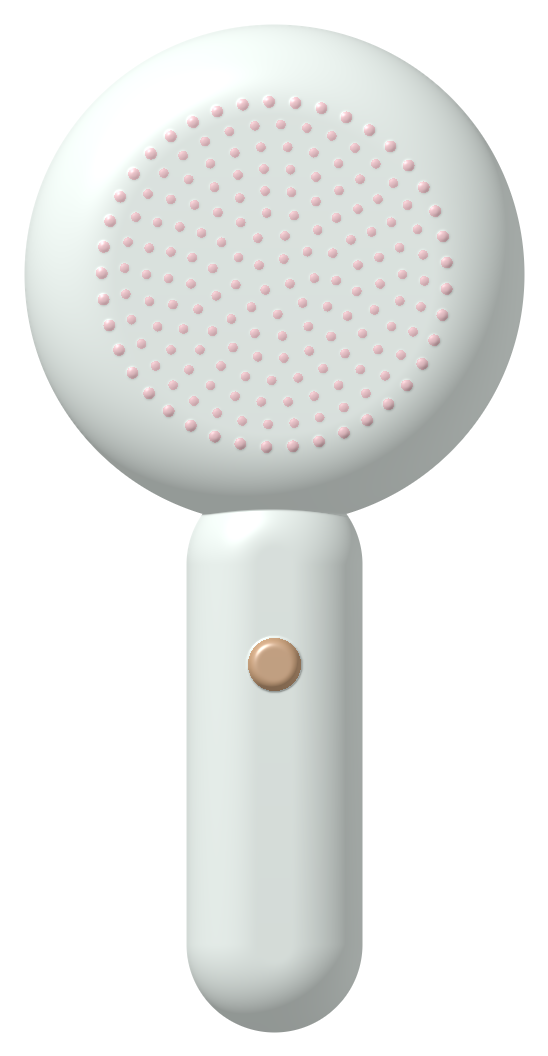
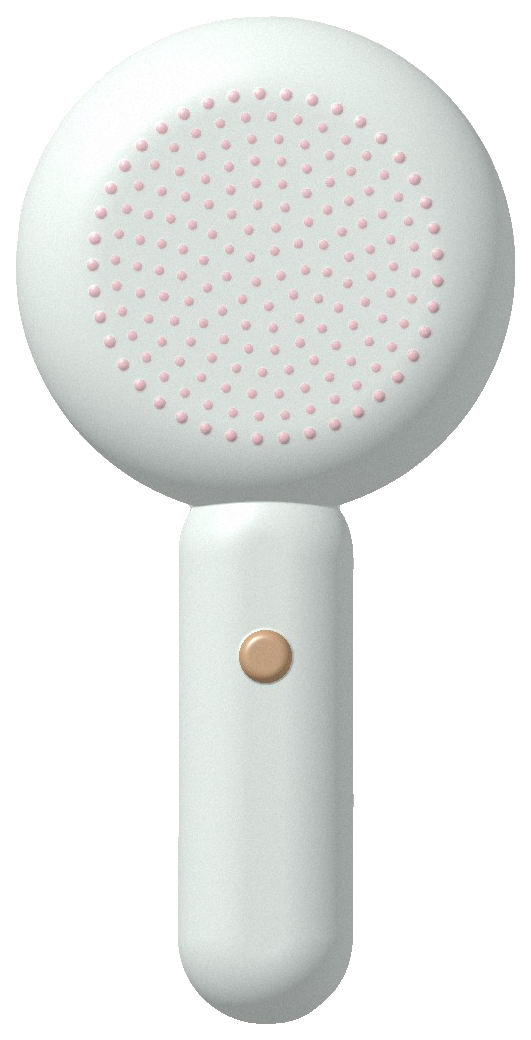
ig-pipeline step 5: rembg cut-out with QA, Photoshop fallback scripts, full sample build
Claude-Session: https://claude.ai/code/session_01CW3dEFA9z4ny1N62gyG3sV

diff --git a/ig-pipeline/tokens/build/tokens.js b/ig-pipeline/tokens/build/tokens.js
@@ -1,2 +1,2 @@
 // AUTO-GENERATED
-window.TOKENS = {"meta":{"name":"ig-pipeline design tokens","version":"0.1.0","unit":"px at 1x canvas (1080 wide). Output is rendered at 1x; background assets are generated at 2x."},"color":{"paper":{"cream":"#F5F0E6","creamDeep":"#ECE5D7","creamShade":"#E2D9C7"},"ink":{"black":"#151413","soft":"#3D3A35","muted":"#7A746A","hairline":"#CFC6B5"},"pigment":{"cobalt":"#1B3DD1","violet":"#6A3BD6","orange":"#F59A2E","vermilion":"#EE4422","pink":"#F3A6C6","teal":"#13A08A","yellow":"#F3C43A","black":"#151413","white":"#FBF8F1"}},"palette":{"aurora":{"dawn":{"colors":["cobalt","violet","orange"],"dots":["cobalt","orange","black"],"shape":"wave"},"shift":{"colors":["violet","vermilion","orange"],"dots":["violet","vermilion","orange"],"shape":"scurve"},"radiance":{"colors":["teal","black","yellow"],"dots":["teal","yellow","black"],"shape":"orb"},"ember":{"colors":["orange","vermilion","black"],"dots":["orange","vermilion","black"],"shape":"scurve2"},"tide":{"colors":["cobalt","teal","yellow"],"dots":["cobalt","teal","yellow"],"shape":"swirl"},"mist":{"colors":["black","orange","yellow"],"dots":["black","orange","yellow"],"shape":"smoke"}},"accentDots":["cobalt","orange","black"],"paint":["cobalt","vermilion","pink","teal","black","orange","white"]},"font":{"mode":"adobe","family":{"serifDisplay":{"adobe":["Cormorant Garamond"],"fallback":"TK Cormorant Garamond","fallbackFiles":{"300":"CormorantGaramond-300.ttf","400":"CormorantGaramond-400.ttf","500":"CormorantGaramond-500.ttf","400i":"CormorantGaramond-400-italic.ttf"}},"mincho":{"adobe":["Ten Mincho","貂明朝"],"fallback":"TK Zen Old Mincho","fallbackFiles":{"400":"ZenOldMincho-400.ttf","700":"ZenOldMincho-700.ttf"}},"gothicHeavy":{"adobe":["Source Han Sans JP","源ノ角ゴシック JP","Source Han Sans"],"fallback":"TK Noto Sans JP","fallbackFiles":{"700":"NotoSansJP-700.ttf","900":"NotoSansJP-900.ttf"}},"label":{"adobe":[],"fallback":"TK Inter","fallbackFiles":{"400":"Inter-400.ttf","500":"Inter-500.ttf","600":"Inter-600.ttf"}}}},"type":{"displayWord":{"family":"serifDisplay","size":132,"weight":400,"lineHeight":0.9,"tracking":"-0.01em","case":"upper"},"displayWordL":{"family":"serifDisplay","size":168,"weight":400,"lineHeight":0.9,"tracking":"-0.015em","case":"upper"},"sectionWord":{"family":"serifDisplay","size":104,"weight":400,"lineHeight":0.9,"tracking":"-0.01em","case":"upper"},"productName":{"family":"serifDisplay","size":56,"weight":400,"lineHeight":1,"tracking":"-0.005em"},"productNameS":{"family":"serifDisplay","size":30,"weight":500,"lineHeight":1.1,"tracking":"0"},"tagline":{"family":"serifDisplay","size":26,"weight":400,"lineHeight":1.3,"tracking":"0"},"jpLead":{"family":"mincho","size":24,"weight":400,"lineHeight":1.75,"tracking":"0.06em"},"jpCta":{"family":"mincho","size":34,"weight":400,"lineHeight":1.6,"tracking":"0.06em"},"jpBody":{"family":"mincho","size":21,"weight":400,"lineHeight":1.8,"tracking":"0.04em"},"jpCaption":{"family":"mincho","size":17,"weight":400,"lineHeight":1.7,"tracking":"0.04em"},"price":{"family":"serifDisplay","size":44,"weight":400,"lineHeight":1,"tracking":"0"},"priceL":{"family":"serifDisplay","size":60,"weight":400,"lineHeight":1,"tracking":"-0.01em"},"index":{"family":"serifDisplay","size":28,"weight":400,"lineHeight":1,"tracking":"0"},"label":{"family":"label","size":14,"weight":600,"lineHeight":1.25,"tracking":"0.12em","case":"upper"},"labelSmall":{"family":"label","size":12,"weight":500,"lineHeight":1.3,"tracking":"0.1em","case":"upper"},"pr":{"family":"label","size":13,"weight":600,"lineHeight":1,"tracking":"0.14em","case":"upper"},"headlineHeavy":{"family":"gothicHeavy","size":150,"weight":900,"lineHeight":1.08,"tracking":"-0.04em"},"subHeavy":{"family":"gothicHeavy","size":34,"weight":700,"lineHeight":1.4,"tracking":"0.02em"}},"space":{"unit":8,"xs":8,"s":16,"m":24,"l":40,"xl":64,"xxl":96,"xxxl":144},"layout":{"margin":{"x":72,"top":64,"bottom":72},"rule":{"weight":1.5,"length":72},"dots":{"size":14,"gap":7},"productMaxHeight":520,"productMaxWidth":600,"mastheadFade":{"height":300,"opacity":0.7}},"canvas":{"carousel":{"width":1080,"height":1350},"reel":{"width":1080,"height":1920,"safe":{"top":220,"bottom":380,"x":72}},"assetScale":2},"texture":{"grain":{"amount":0.055,"auroraEdge":0.55},"paper":{"amount":0.014,"cluster":1}},"motion":{"fps":30,"ease":{"soft":[0.25,0.1,0.25,1],"editorial":[0.7,0,0.2,1]},"duration":{"in":0.6,"hold":2.4,"out":0.4}},"brand":{"collection":"BEAUTY_TECH ARCHIVE","handle":"@your_account","prLabel":"PR","prNotice":"本投稿はアフィリエイト広告（PR）を含みます","cta":"商品リンクは\nプロフィールから。","stores":["楽天ROOM","Amazon"],"savePrompt":"保存して、選ぶときに見返してください。","priceNote":"価格は{date}時点の参考価格（税込）です。最新情報は各ストアでご確認ください。"}};
+window.TOKENS = {"meta":{"name":"ig-pipeline design tokens","version":"0.1.0","unit":"px at 1x canvas (1080 wide). Output is rendered at 1x; background assets are generated at 2x."},"color":{"paper":{"cream":"#F5F0E6","creamDeep":"#ECE5D7","creamShade":"#E2D9C7"},"ink":{"black":"#151413","soft":"#3D3A35","muted":"#7A746A","hairline":"#CFC6B5"},"pigment":{"cobalt":"#1B3DD1","violet":"#6A3BD6","orange":"#F59A2E","vermilion":"#EE4422","pink":"#F3A6C6","teal":"#13A08A","yellow":"#F3C43A","black":"#151413","white":"#FBF8F1"}},"palette":{"aurora":{"dawn":{"colors":["cobalt","violet","orange"],"dots":["cobalt","orange","black"],"shape":"wave"},"shift":{"colors":["violet","vermilion","orange"],"dots":["violet","vermilion","orange"],"shape":"scurve"},"radiance":{"colors":["teal","black","yellow"],"dots":["teal","yellow","black"],"shape":"orb"},"ember":{"colors":["orange","vermilion","black"],"dots":["orange","vermilion","black"],"shape":"scurve2"},"tide":{"colors":["cobalt","teal","yellow"],"dots":["cobalt","teal","yellow"],"shape":"swirl"},"mist":{"colors":["black","orange","yellow"],"dots":["black","orange","yellow"],"shape":"smoke"}},"accentDots":["cobalt","orange","black"],"paint":["cobalt","vermilion","pink","teal","black","orange","white"]},"font":{"mode":"adobe","family":{"serifDisplay":{"adobe":["Cormorant Garamond"],"fallback":"TK Cormorant Garamond","fallbackFiles":{"300":"CormorantGaramond-300.ttf","400":"CormorantGaramond-400.ttf","500":"CormorantGaramond-500.ttf","400i":"CormorantGaramond-400-italic.ttf"}},"mincho":{"adobe":["Ten Mincho","貂明朝"],"fallback":"TK Zen Old Mincho","fallbackFiles":{"400":"ZenOldMincho-400.ttf","700":"ZenOldMincho-700.ttf"}},"gothicHeavy":{"adobe":["Source Han Sans JP","源ノ角ゴシック JP","Source Han Sans"],"fallback":"TK Noto Sans JP","fallbackFiles":{"700":"NotoSansJP-700.ttf","900":"NotoSansJP-900.ttf"}},"label":{"adobe":[],"fallback":"TK Inter","fallbackFiles":{"400":"Inter-400.ttf","500":"Inter-500.ttf","600":"Inter-600.ttf"}}}},"type":{"displayWord":{"family":"serifDisplay","size":132,"weight":400,"lineHeight":0.9,"tracking":"-0.01em","case":"upper"},"displayWordL":{"family":"serifDisplay","size":168,"weight":400,"lineHeight":0.9,"tracking":"-0.015em","case":"upper"},"sectionWord":{"family":"serifDisplay","size":104,"weight":400,"lineHeight":0.9,"tracking":"-0.01em","case":"upper"},"productName":{"family":"serifDisplay","size":56,"weight":400,"lineHeight":1,"tracking":"-0.005em"},"productNameS":{"family":"serifDisplay","size":30,"weight":500,"lineHeight":1.1,"tracking":"0"},"tagline":{"family":"serifDisplay","size":26,"weight":400,"lineHeight":1.3,"tracking":"0"},"jpLead":{"family":"mincho","size":24,"weight":400,"lineHeight":1.75,"tracking":"0.06em"},"jpCta":{"family":"mincho","size":34,"weight":400,"lineHeight":1.6,"tracking":"0.06em"},"jpBody":{"family":"mincho","size":21,"weight":400,"lineHeight":1.8,"tracking":"0.04em"},"jpCaption":{"family":"mincho","size":17,"weight":400,"lineHeight":1.7,"tracking":"0.04em"},"price":{"family":"serifDisplay","size":44,"weight":400,"lineHeight":1,"tracking":"0"},"priceL":{"family":"serifDisplay","size":60,"weight":400,"lineHeight":1,"tracking":"-0.01em"},"index":{"family":"serifDisplay","size":28,"weight":400,"lineHeight":1,"tracking":"0"},"label":{"family":"label","size":14,"weight":600,"lineHeight":1.25,"tracking":"0.12em","case":"upper"},"labelSmall":{"family":"label","size":12,"weight":500,"lineHeight":1.3,"tracking":"0.1em","case":"upper"},"pr":{"family":"label","size":13,"weight":600,"lineHeight":1,"tracking":"0.14em","case":"upper"},"headlineHeavy":{"family":"gothicHeavy","size":150,"weight":900,"lineHeight":1.08,"tracking":"-0.04em"},"subHeavy":{"family":"gothicHeavy","size":34,"weight":700,"lineHeight":1.4,"tracking":"0.02em"}},"space":{"unit":8,"xs":8,"s":16,"m":24,"l":40,"xl":64,"xxl":96,"xxxl":144},"layout":{"margin":{"x":72,"top":64,"bottom":72},"rule":{"weight":1.5,"length":72},"dots":{"size":14,"gap":7},"productMaxHeight":520,"productMaxWidth":600,"mastheadFade":{"height":300,"opacity":0.7}},"canvas":{"carousel":{"width":1080,"height":1350},"reel":{"width":1080,"height":1920,"safe":{"top":220,"bottom":380,"x":72}},"assetScale":2},"texture":{"grain":{"amount":0.055,"auroraEdge":0.55},"paper":{"amount":0.014,"cluster":1}},"motion":{"fps":30,"ease":{"soft":[0.25,0.1,0.25,1],"editorial":[0.7,0,0.2,1]},"duration":{"in":0.6,"hold":2.4,"out":0.4}},"brand":{"collection":"BEAUTY_TECH ARCHIVE","handle":"@your_account","prLabel":"PR","prNotice":"本投稿はアフィリエイト広告（PR）を含みます","cta":"商品リンクは\nプロフィールから。","stores":["楽天ROOM","Amazon"],"savePrompt":"保存して、選ぶときに見返してください。","priceNote":"価格は{date}時点の参考価格（税込）です。最新情報は各ストアでご確認ください。","amazonDisclosure":"Amazonのアソシエイトとして、当アカウントは適格販売により収入を得ています。","hashtags":["#美容家電","#美容ガジェット","#美顔器","#スキンケア家電","#楽天ROOM"]}};

diff --git a/ig-pipeline/scripts/photoshop/remove-bg.jsx b/ig-pipeline/scripts/photoshop/remove-bg.jsx
@@ -1,0 +1,44 @@
+// Photoshop: batch "Remove Background" → apply mask → trim → PNG into assets/products/manual/
+// Use when rembg is not good enough (white-on-white, hair-thin cables, chrome reflections).
+// Run:  File > Scripts > Browse… (this file)   or   bash scripts/photoshop/run.sh remove-bg
+// The file name (without extension) must be the product id, e.g. raw/hair-dryer.jpg → manual/hair-dryer.png
+#target photoshop
+(function () {
+  var root = File($.fileName).parent.parent.parent; // ig-pipeline/
+  var rawDir = Folder(root.fsName + "/assets/products/raw");
+  var outDir = Folder(root.fsName + "/assets/products/manual");
+  if (!outDir.exists) outDir.create();
+
+  var files = File.openDialog("切り抜く商品画像を選択（複数可）", function (f) { return f instanceof Folder || /\.(jpe?g|png|tiff?|webp|psd)$/i.test(f.name); }, true);
+  if (!files) return;
+  if (!(files instanceof Array)) files = [files];
+  var prevUnits = app.preferences.rulerUnits;
+  app.preferences.rulerUnits = Units.PIXELS;
+  var done = [];
+  for (var i = 0; i < files.length; i++) {
+    var doc = app.open(files[i]);
+    try {
+      if (doc.activeLayer.isBackgroundLayer) doc.activeLayer.isBackgroundLayer = false;
+      executeAction(stringIDToTypeID("removeBackground"), undefined, DialogModes.NO); // Quick Action (adds a layer mask)
+      applyMask();
+      doc.trim(TrimType.TRANSPARENT, true, true, true, true);
+      doc.resizeCanvas(doc.width + 32, doc.height + 32, AnchorPosition.MIDDLECENTER); // 16 px padding like rembg output
+      var id = decodeURI(doc.name).replace(/\.[^.]+$/, "");
+      doc.saveAs(File(outDir.fsName + "/" + id + ".png"), new PNGSaveOptions(), true, Extension.LOWERCASE);
+      done.push(id);
+    } catch (e) {
+      alert(files[i].name + ": " + e);
+    }
+    doc.close(SaveOptions.DONOTSAVECHANGES);
+  }
+  app.preferences.rulerUnits = prevUnits;
+  alert("書き出し完了: " + done.join(", ") + "\n→ assets/products/manual/\n細部は export-cutout.jsx で手直しできます。");
+
+  function applyMask() {
+    var d = new ActionDescriptor(), r = new ActionReference();
+    r.putEnumerated(charIDToTypeID("Chnl"), charIDToTypeID("Chnl"), charIDToTypeID("Msk "));
+    d.putReference(charIDToTypeID("null"), r);
+    d.putBoolean(charIDToTypeID("Aply"), true);
+    executeAction(charIDToTypeID("Dlt "), d, DialogModes.NO);
+  }
+})();

diff --git a/ig-pipeline/scripts/photoshop/export-cutout.jsx b/ig-pipeline/scripts/photoshop/export-cutout.jsx
@@ -1,0 +1,22 @@
+// Photoshop: export the ACTIVE document (after you refined the mask by hand, e.g. Select and Mask)
+// as a trimmed transparent PNG to assets/products/manual/<product-id>.png.
+// Layer masks on the active layer are applied; the document itself is not modified.
+#target photoshop
+(function () {
+  if (!app.documents.length) { alert("ドキュメントが開かれていません"); return; }
+  var root = File($.fileName).parent.parent.parent;
+  var outDir = Folder(root.fsName + "/assets/products/manual");
+  if (!outDir.exists) outDir.create();
+  var src = app.activeDocument;
+  var id = prompt("商品ID（data/products.json の id）", decodeURI(src.name).replace(/\.[^.]+$/, ""));
+  if (!id) return;
+  var doc = src.duplicate(id, true); // merged copy
+  try {
+    doc.trim(TrimType.TRANSPARENT, true, true, true, true);
+    doc.resizeCanvas(UnitValue(doc.width.as("px") + 32, "px"), UnitValue(doc.height.as("px") + 32, "px"), AnchorPosition.MIDDLECENTER);
+    doc.saveAs(File(outDir.fsName + "/" + id + ".png"), new PNGSaveOptions(), true, Extension.LOWERCASE);
+    alert("保存しました → assets/products/manual/" + id + ".png");
+  } finally {
+    doc.close(SaveOptions.DONOTSAVECHANGES);
+  }
+})();

diff --git a/ig-pipeline/tokens/build/tokens.ts b/ig-pipeline/tokens/build/tokens.ts
@@ -398,7 +398,15 @@ export const tokens = {
       "Amazon"
     ],
     "savePrompt": "保存して、選ぶときに見返してください。",
-    "priceNote": "価格は{date}時点の参考価格（税込）です。最新情報は各ストアでご確認ください。"
+    "priceNote": "価格は{date}時点の参考価格（税込）です。最新情報は各ストアでご確認ください。",
+    "amazonDisclosure": "Amazonのアソシエイトとして、当アカウントは適格販売により収入を得ています。",
+    "hashtags": [
+      "#美容家電",
+      "#美容ガジェット",
+      "#美顔器",
+      "#スキンケア家電",
+      "#楽天ROOM"
+    ]
   }
 } as const;
 export type Tokens = typeof tokens;

diff --git a/ig-pipeline/pipeline/cutout.py b/ig-pipeline/pipeline/cutout.py
@@ -1,0 +1,166 @@
+"""Product background removal (rembg) with clean-up and QA.
+
+    .venv/bin/python pipeline/cutout.py                 # every product in data/products.json
+    .venv/bin/python pipeline/cutout.py facial-ems      # selected ids
+    .venv/bin/python pipeline/cutout.py --force         # redo even if up to date
+    .venv/bin/python pipeline/cutout.py --model isnet-general-use
+
+Input : the product's "image" (data/products.json), e.g. assets/products/raw/<id>.jpg
+Output: assets/products/cutout/<id>.png  (trimmed RGBA, edge colour decontaminated)
+        assets/products/cutout/<id>.json (crop offset, model, timestamp)
+        docs/previews/cutout-qa.jpg      (raw / on cream / on black / alpha, per product)
+
+Manual override: put a hand-made cut-out (e.g. from Photoshop) at
+assets/products/manual/<id>.png — the build then uses it instead and this script skips the id.
+"""
+from __future__ import annotations
+
+import argparse
+import json
+import os
+import subprocess
+import sys
+import time
+from pathlib import Path
+
+import numpy as np
+from PIL import Image, ImageDraw
+from scipy import ndimage
+
+ROOT = Path(__file__).resolve().parents[1]
+os.environ.setdefault("U2NET_HOME", str(ROOT / ".cache/models"))  # rembg model cache inside the project
+from rembg import new_session, remove  # noqa: E402
+
+DEFAULT_MODEL = "birefnet-general"
+PAD = 16
+
+
+def keep_main(alpha: np.ndarray, min_ratio=0.02) -> np.ndarray:
+    """Drop specks: keep connected parts that are at least min_ratio of the largest part."""
+    lab, n = ndimage.label(alpha > 0.5)
+    if n <= 1:
+        return alpha
+    sizes = ndimage.sum(np.ones_like(lab), lab, index=range(1, n + 1))
+    keep = np.isin(lab, [i + 1 for i, s in enumerate(sizes) if s >= sizes.max() * min_ratio])
+    keep = ndimage.binary_dilation(keep, iterations=3)  # keep the soft edge around kept parts
+    return alpha * keep
+
+
+def decontaminate(rgb: np.ndarray, alpha: np.ndarray, bg: np.ndarray) -> np.ndarray:
+    """Remove backdrop colour bleeding into semi-transparent edge pixels: F = (I - (1-a)B) / a."""
+    a = alpha[..., None]
+    fg = (rgb - (1 - a) * bg) / np.clip(a, 0.05, 1)
+    edge = (alpha > 0.02) & (alpha < 0.98)
+    out = rgb.copy()
+    out[edge] = np.clip(fg[edge], 0, 1)
+    return out
+
+
+def backdrop_colour(rgb: np.ndarray) -> np.ndarray:
+    border = np.concatenate([rgb[:8].reshape(-1, 3), rgb[-8:].reshape(-1, 3), rgb[:, :8].reshape(-1, 3), rgb[:, -8:].reshape(-1, 3)])
+    return np.median(border, axis=0)
+
+
+def cut(src: Path, session) -> tuple[Image.Image, dict]:
+    im = Image.open(src).convert("RGB")
+    rgba = np.asarray(remove(im, session=session, post_process_mask=True)).astype(np.float32) / 255
+    rgb, alpha = np.asarray(im).astype(np.float32) / 255, rgba[..., 3]
+    alpha = keep_main(alpha)
+    rgb = decontaminate(rgb, alpha, backdrop_colour(rgb))
+    ys, xs = np.where(alpha > 0.02)
+    y0, y1 = max(ys.min() - PAD, 0), min(ys.max() + PAD + 1, alpha.shape[0])
+    x0, x1 = max(xs.min() - PAD, 0), min(xs.max() + PAD + 1, alpha.shape[1])
+    out = np.dstack([rgb, alpha])[y0:y1, x0:x1]
+    return Image.fromarray((out * 255 + 0.5).astype(np.uint8), "RGBA"), {"x0": int(x0), "y0": int(y0), "src_size": im.size}
+
+
+def iou_vs_mock(pid: str, cut_img: Image.Image, meta: dict) -> float | None:
+    """If a ground-truth mock exists (generators/mock_products.py), score the mask overlap."""
+    gt_png, gt_json = ROOT / f"assets/products/mock/{pid}.png", ROOT / f"assets/products/mock/{pid}.json"
+    if not gt_png.exists() or not gt_json.exists():
+        return None
+    W, H = meta["src_size"]
+    def place(img, x0, y0):
+        canvas = np.zeros((H, W), bool)
+        a = np.asarray(img)[..., 3] > 127
+        canvas[y0 : y0 + a.shape[0], x0 : x0 + a.shape[1]] = a[: H - y0, : W - x0]
+        return canvas
+    g = json.loads(gt_json.read_text())
+    A, B = place(Image.open(gt_png), g["x0"], g["y0"]), place(cut_img, meta["x0"], meta["y0"])
+    return float((A & B).sum() / max((A | B).sum(), 1))
+
+
+def qa_sheet(rows, out: Path):
+    tile, pad, lab = 300, 12, 22
+    sheet = Image.new("RGB", (pad + 4 * (tile + pad), pad + len(rows) * (tile + pad + lab)), (40, 40, 40))
+    d = ImageDraw.Draw(sheet)
+    for r, (pid, raw, cutimg, score, source) in enumerate(rows):
+        y = pad + r * (tile + pad + lab)
+        tiles = []
+        t = Image.open(raw).convert("RGB"); t.thumbnail((tile, tile)); tiles.append(t)
+        for bg in [(245, 240, 230), (21, 20, 19)]:
+            c = cutimg.copy(); c.thumbnail((tile, tile))
+            b = Image.new("RGBA", c.size, bg + (255,)); b.alpha_composite(c); tiles.append(b.convert("RGB"))
+        a = cutimg.getchannel("A").convert("RGB"); a.thumbnail((tile, tile)); tiles.append(a)
+        for i, t in enumerate(tiles):
+            x = pad + i * (tile + pad)
+            sheet.paste(t, (x + (tile - t.width) // 2, y + (tile - t.height) // 2))
+        label = f"{pid}  [{source}]" + (f"  IoU vs ground truth {score:.3f}" if score is not None else "")
+        d.text((pad, y + tile + 5), label + "    raw / on cream / on black / alpha", fill=(230, 230, 230))
+    out.parent.mkdir(parents=True, exist_ok=True)
+    sheet.save(out, quality=90)
+
+
+def process_one(pid: str, model: str):
+    """Worker: cut one product (run in its own process so model memory is released after each)."""
+    p = {x["id"]: x for x in json.loads((ROOT / "data/products.json").read_text())}[pid]
+    raw = ROOT / p["image"]
+    outdir = ROOT / "assets/products/cutout"
+    t = time.time()
+    img, meta = cut(raw, new_session(model))
+    img.save(outdir / f"{pid}.png", optimize=True)
+    score = iou_vs_mock(pid, img, meta)
+    meta.update(model=model, iou=score, seconds=round(time.time() - t, 1))
+    (outdir / f"{pid}.json").write_text(json.dumps(meta) + "\n")
+    print(f"{pid}: {img.size} in {meta['seconds']}s" + (f", IoU {score:.3f}" if score is not None else ""), flush=True)
+
+
+def main():
+    ap = argparse.ArgumentParser()
+    ap.add_argument("ids", nargs="*")
+    ap.add_argument("--force", action="store_true")
+    ap.add_argument("--model", default=os.environ.get("REMBG_MODEL", DEFAULT_MODEL))
+    ap.add_argument("--worker", action="store_true", help=argparse.SUPPRESS)
+    a = ap.parse_args()
+    if a.worker:
+        process_one(a.ids[0], a.model)
+        return
+    products = json.loads((ROOT / "data/products.json").read_text())
+    outdir = ROOT / "assets/products/cutout"
+    outdir.mkdir(parents=True, exist_ok=True)
+    rows = []
+    for p in products:
+        pid = p["id"]
+        if a.ids and pid not in a.ids:
+            continue
+        raw = ROOT / p["image"]
+        manual = ROOT / f"assets/products/manual/{pid}.png"
+        dst, meta_f = outdir / f"{pid}.png", outdir / f"{pid}.json"
+        if manual.exists():
+            print(f"{pid}: manual cut-out found (assets/products/manual), skipping rembg")
+            rows.append((pid, raw, Image.open(manual).convert("RGBA"), None, "manual"))
+            continue
+        if a.force or not dst.exists() or dst.stat().st_mtime < raw.stat().st_mtime:
+            print(f"{pid}: removing background with '{a.model}'…", flush=True)
+            subprocess.run([sys.executable, __file__, pid, "--worker", "--model", a.model], check=True)
+        else:
+            print(f"{pid}: up to date")
+        meta = json.loads(meta_f.read_text()) if meta_f.exists() else {}
+        rows.append((pid, raw, Image.open(dst).convert("RGBA"), meta.get("iou"), meta.get("model", "rembg")))
+    if rows:
+        qa_sheet(rows, ROOT / "docs/previews/cutout-qa.jpg")
+        print("QA sheet → docs/previews/cutout-qa.jpg")
+
+
+if __name__ == "__main__":
+    main()

diff --git a/ig-pipeline/generators/mock_products.py b/ig-pipeline/generators/mock_products.py
@@ -106,6 +106,8 @@ def save(rid, scene: Scene, backdrop="#E9E7E3"):
     rgba = np.dstack([srgb(rgb), a])[y0:y1, x0:x1]
     (ROOT / "assets/products/mock").mkdir(parents=True, exist_ok=True)
     Image.fromarray((rgba * 255 + 0.5).astype(np.uint8), "RGBA").save(ROOT / f"assets/products/mock/{rid}.png", optimize=True)
+    # crop offset in the raw photo, so cut-out QA can compare masks in the same coordinates
+    (ROOT / f"assets/products/mock/{rid}.json").write_text(f'{{"x0": {int(x0)}, "y0": {int(y0)}}}\n')
 
     # "photo": seamless backdrop with gradient, contact shadow, noise, slight blur
     bg = lin(backdrop) * (1.08 - 0.25 * ((Y - S * 0.35) / S) ** 2 * 2)[..., None]
